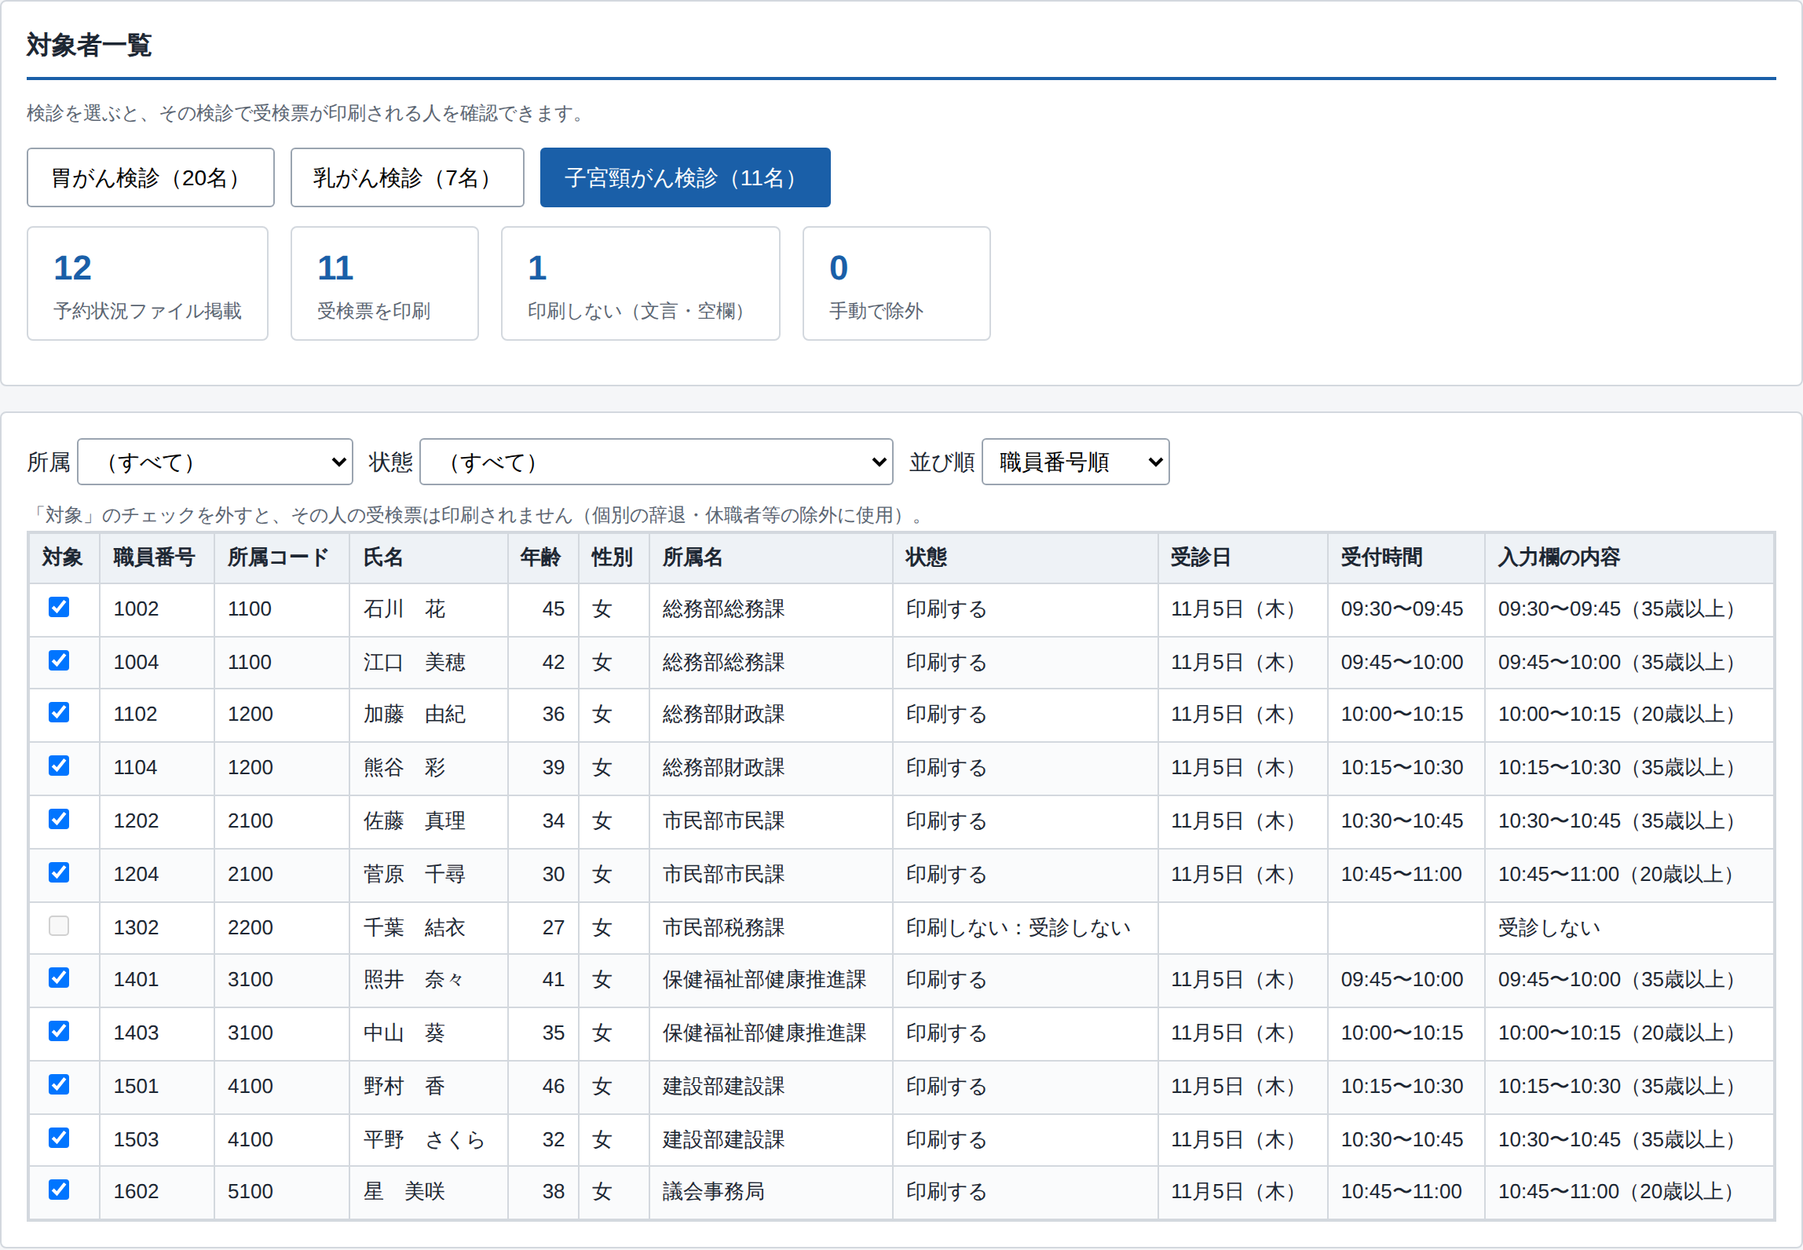
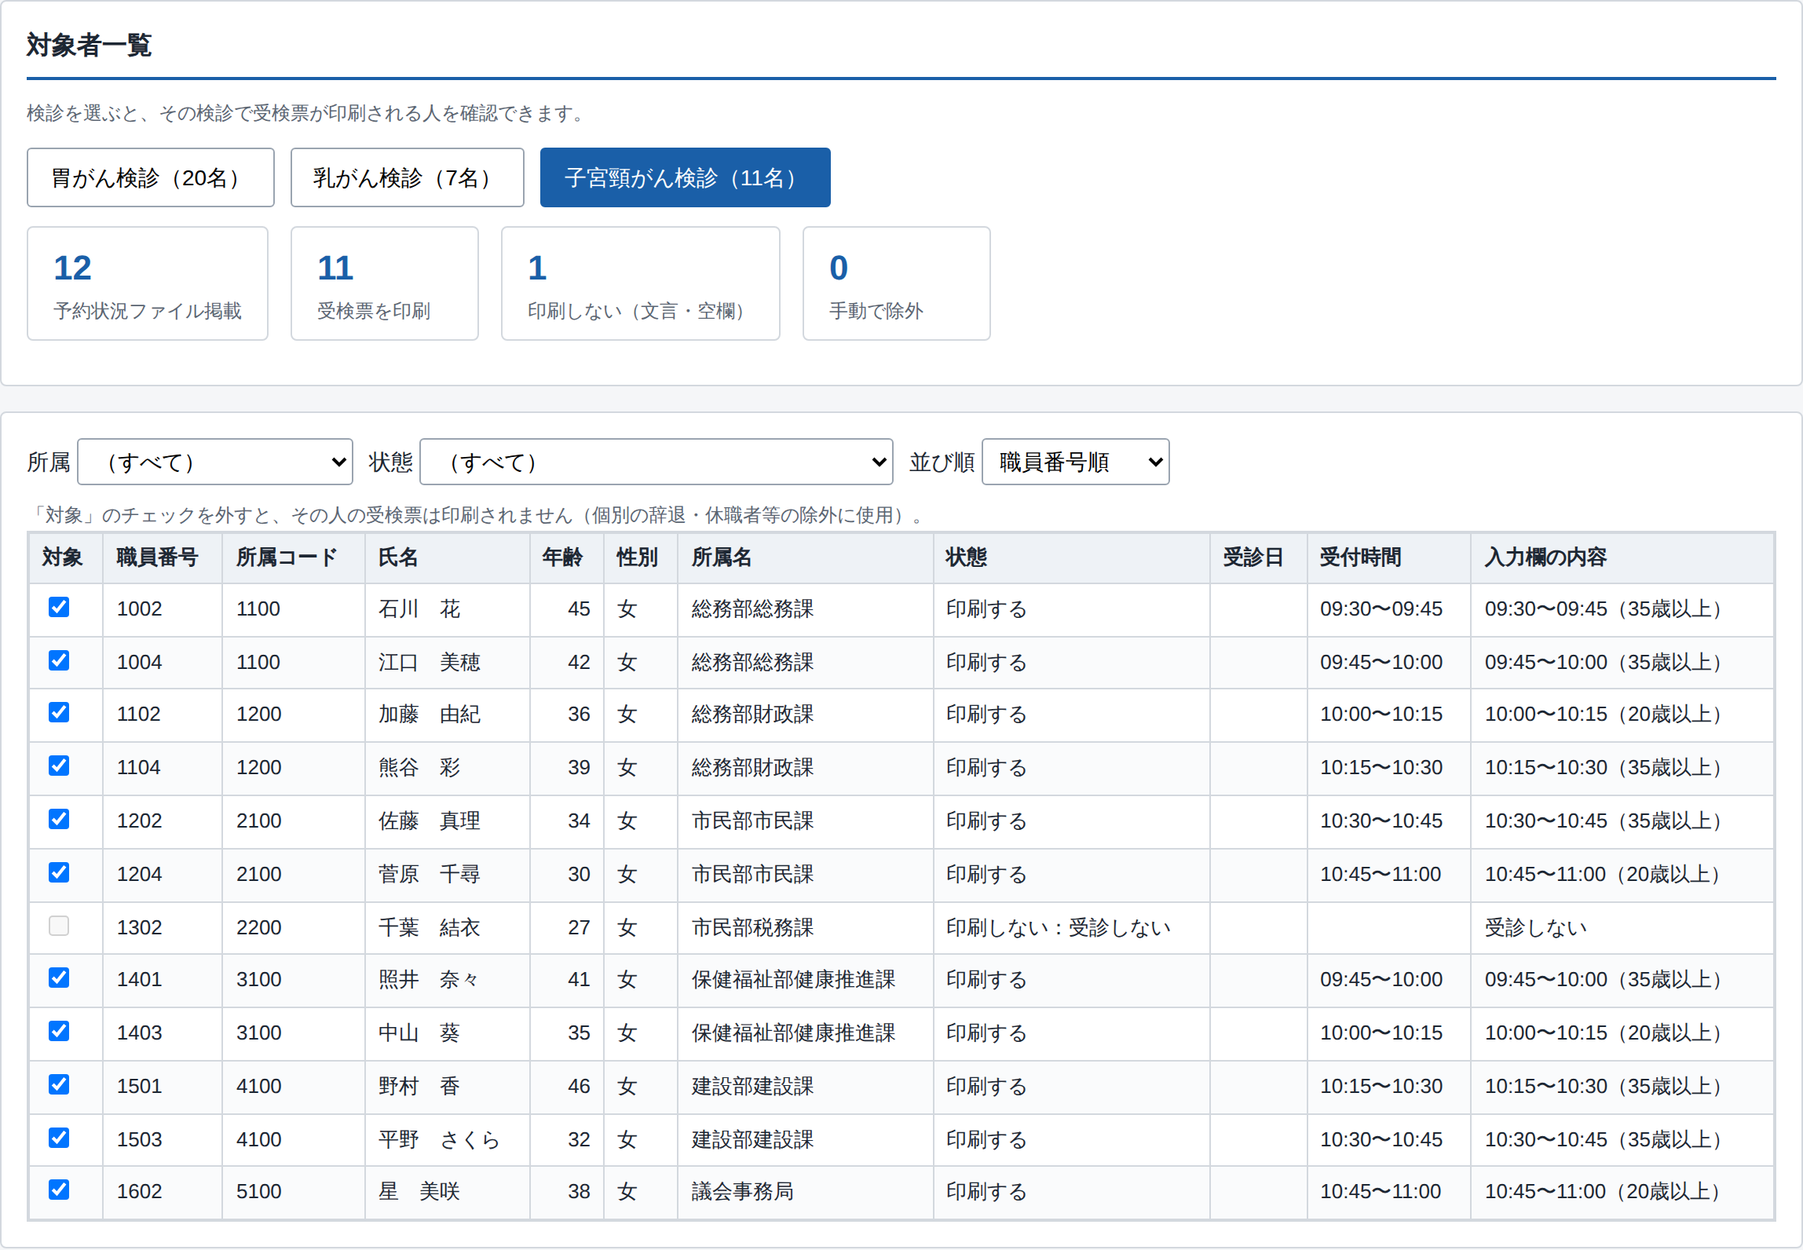
実施年月・受診日の指定をやめ、入力欄に書かれた日付をそのまま扱うようにした
予約状況の取込画面から実施年月と受診日の入力欄を削除した。
入力欄に日しか書かれていない場合でも年月を補わず、「6日（火）」のまま
受診日として扱う。月まで書かれている場合（「10月6日」「10/6」など）は
従来どおり日付として組み立て、年は対象年度から決める。

これに伴い、実施年月の指定を前提としていた次の警告を廃止した。

- 「実施年月と日が合いません」
- 「入力欄に日しかありません。実施年月を指定してください」
- 「受診日が決まりません」

曜日の突き合わせは、月まで書かれている場合に限り行う。
入力欄の【男】【女】と名簿の性別の突き合わせは従来どおり。

受検票のB4様式は受診日を印字しないため、この変更による印字内容への
影響はない。対象者一覧と受診日時順の並び替えでは、日付として組み立て
られたものを優先し、そうでないものは入力欄の表記のまま扱う。

Claude-Session: https://claude.ai/code/session_01LqhWD3ZtEM5S1eRzxMM65U

diff --git a/kenshin.html b/kenshin.html
@@ -435,7 +435,8 @@ table.grid tbody tr:nth-child(even){background:#fafbfc}
       <strong>受検票を印刷する人は、このファイルだけで決まります。</strong><br>
       入力欄が <strong>空欄</strong> の人と、下の「印刷が不要になる入力値」に<strong>該当する</strong>人は印刷しません。
       <strong>それ以外は、入力欄の内容にかかわらずすべて印刷します。</strong><br>
-      <strong>婦人検診</strong>は1つのファイルから、年齢区分に応じて乳がん検診・子宮頸がん検診に振り分けます。
+      <strong>婦人検診</strong>は1つのファイルから、年齢区分に応じて乳がん検診・子宮頸がん検診に振り分けます。<br>
+      日付は入力欄に書かれているものをそのまま使います。年や月を入力する必要はありません。
     </div>
     <div id="nyuCards"></div>
   </div>
@@ -659,7 +660,7 @@ table.grid tbody tr:nth-child(even){background:#fafbfc}
     <h3>作業の流れ</h3>
     <ol>
       <li><strong>名簿の読込</strong>　上で作った職員名簿の Excel を読み込み、列の対応付けを確認します。</li>
-      <li><strong>予約状況の取込</strong>　胃がん検診・婦人検診それぞれの Excel を読み込み、職員番号の列と入力の列を指定して取り込みます。実施年月（または受診日）と会場もここで指定します。<br>
+      <li><strong>予約状況の取込</strong>　胃がん検診・婦人検診それぞれの Excel を読み込み、職員番号の列と入力の列を指定して取り込みます。<br>
           取り込むと、確認が必要な件があればこの画面に表示されます。</li>
       <li><strong>対象者一覧</strong>　検診を選んで、受検票が印刷される人を確認します。辞退者などはここで個別に外せます。</li>
       <li><strong>様式レイアウト</strong>　初回のみ、協会の用紙に1枚テスト印刷して位置を確認します。合っていればそのままで構いません。</li>
@@ -676,11 +677,11 @@ table.grid tbody tr:nth-child(even){background:#fafbfc}
       <tbody>
         <tr><td><code>【男】6日（火）　7：00〜7：15</code><br><span class="hint">胃がん検診</span></td>
             <td>印刷する</td>
-            <td>受診日「10月6日（火）」（実施年月の指定から）／受付時間「7：00〜7：15」<br>
-                <span class="hint">【男】【女】が名簿の性別と違うとき、曜日が合わないときは一覧に要確認と表示します。</span></td></tr>
+            <td>受診日「6日（火）」／受付時間「7：00〜7：15」<br>
+                <span class="hint">【男】【女】が名簿の性別と違うときは一覧に要確認と表示します。</span></td></tr>
         <tr><td><code>09:30〜09:45（35歳以上）</code><br><span class="hint">婦人検診</span></td>
             <td>印刷する</td>
-            <td>受診日は指定した日／受付時間「09:30〜09:45」<br>
+            <td>受付時間「09:30〜09:45」<br>
                 <span class="hint">年齢区分で乳がん検診・子宮頸がん検診に振り分けます。</span></td></tr>
         <tr><td><code>要相談</code> など日時として読めない内容</td><td><strong>印刷する</strong></td>
             <td>受診日は空欄／受付時間に内容をそのまま印字（一覧に<strong>要確認</strong>と表示）</td></tr>
@@ -875,7 +876,7 @@ var state = {
   onlyActive: true,      // 「在職」列がある場合、在職者のみを対象にする
   inactive:   [],        // 在職でないため除外した職員
   nyuSrc:     {},        // 取込元(srcId) -> 読み込んだ内容
-  nyuOpt:     {},        // 取込元(srcId) -> 実施年月・受診日・会場の設定
+  nyuOpt:     {},        // 取込元(srcId) -> 会場の設定
   nyuryoku:   {},        // kenshinId -> 検診ごとに振り分けた結果（nyuSrc から組み立て）
   fujinRules: defaultFujinRules(),
   fujinFallback: "both", // 年齢区分がどのルールにも当てはまらないときの扱い
@@ -1761,13 +1762,11 @@ $("baseDate").addEventListener("change", function(){
 
 var NYU_SOURCES = [
   { id:"i",     name:"胃がん検診", kenshin:["i"],
-    needMonth:true,  needDate:false,
     sample:"【男】6日（火）　7：00〜7：15",
-    note:"入力欄に日だけが書かれているため、実施年月をここで指定します。" },
+    note:"性別・日・受付時間帯を読み取ります。" },
   { id:"fujin", name:"婦人検診（乳がん・子宮頸がん）", kenshin:["nyu","shikyu"],
-    needMonth:false, needDate:true,
     sample:"09:30〜09:45（35歳以上）",
-    note:"入力欄に日付がないため、受診日をここで指定します。年齢区分で対象の検診が決まります。" }
+    note:"受付時間帯と年齢区分を読み取り、年齢区分で対象の検診が決まります。" }
 ];
 
 function nyuSourceOf(id){
@@ -1792,6 +1791,13 @@ function empKey(v){
 }
 function empKeyLoose(v){
   return empKey(v).replace(/^0+(?=.)/, "");
+}
+
+/* 受診日の表示。月まで分かれば「10月6日（火）」、日しかなければ「6日（火）」 */
+function assignDateLabel(a){
+  if(!a) return "";
+  if(a.date) return fmtDateWithDow(a.date);
+  return a.dateText || "";
 }
 
 function isoOf(d){
@@ -1835,7 +1841,7 @@ function parseNyuryoku(raw, srcId){
               .replace(/[‐-―−]/g, "-")   // 各種ダッシュを半角ハイフンに
               .replace(/　/g, " ");                        // 全角スペース
   var orig = s;
-  var rec = { kind:"time", raw:s, date:null, timeText:"", sexMark:"", ageBand:"", dow:"", warn:"" };
+  var rec = { kind:"time", raw:s, date:null, dateText:"", timeText:"", sexMark:"", ageBand:"", dow:"", warn:"" };
 
   function blankAt(str, at, len){
     var pad = "";
@@ -1896,41 +1902,30 @@ function parseNyuryoku(raw, srcId){
 
   rec.timeText = orig.replace(/[\s　]+/g, " ").replace(/^[\s・,、]+|[\s・,、]+$/g, "");
 
-  /* 年と月を決める */
+  /* 受診日。入力欄に月まで書かれているときだけ日付として組み立てる。
+     「6日（火）」のように日しかない場合は、書かれたまま文字として扱います。 */
   if(da != null){
-    if(mo == null && opt.month){
-      var mp = String(opt.month).split("-");
-      rec.date = mkDate(+mp[0], +mp[1], da);
-      if(!rec.date) rec.warn = "実施年月と日が合いません（" + opt.month + " に " + da + "日はありません）";
-    }else if(mo != null){
-      if(mo >= 1 && mo <= 12 && da >= 1 && da <= 31){
-        var y = (mo >= 4) ? state.fiscalYear : state.fiscalYear + 1;
-        rec.date = mkDate(y, mo, da);
-      }
+    if(mo != null && mo >= 1 && mo <= 12 && da >= 1 && da <= 31){
+      var y = (mo >= 4) ? state.fiscalYear : state.fiscalYear + 1;
+      rec.date = mkDate(y, mo, da);
+      rec.dateText = mo + "月" + da + "日" + (rec.dow ? "（" + rec.dow + "）" : "");
     }else{
-      rec.warn = "入力欄に日しかありません。実施年月を指定してください";
+      rec.dateText = da + "日" + (rec.dow ? "（" + rec.dow + "）" : "");
     }
-  }else if(opt.date){
-    rec.date = parseIso(opt.date);
+  }else if(rec.dow){
+    rec.dateText = "（" + rec.dow + "）";
   }
 
-  /* 受診日が決まらないときは知らせる（受検票の受診日欄が空欄になります） */
-  if(!rec.date && !rec.warn && (src.needMonth || src.needDate)){
-    rec.warn = src.needMonth
-      ? "受診日が決まりません。実施年月の指定と入力欄の日付をご確認ください"
-      : "受診日が決まりません。受診日を指定してください";
-  }
-
-  /* 曜日が書かれていれば突き合わせる */
+  /* 月まで書かれていれば曜日を突き合わせる */
   if(rec.date && rec.dow){
     var actual = DOW_NAMES[rec.date.getDay()];
     if(actual !== rec.dow){
-      rec.warn = "曜日が合いません（入力欄は" + rec.dow + "曜、指定の年月では" + actual + "曜）";
+      rec.warn = "曜日が合いません（入力欄は" + rec.dow + "曜、" + (rec.date.getMonth()+1) + "月" + rec.date.getDate() + "日は" + actual + "曜）";
     }
   }
 
   /* 日時として何も読み取れなかった場合 */
-  if(!rec.date && !rec.timeText) rec.kind = "unknown";
+  if(!rec.dateText && !rec.timeText) rec.kind = "unknown";
 
   return finishRec(rec, src, opt);
 }
@@ -2026,14 +2021,8 @@ function renderNyuCard(sid){
 
   h += '<div class="row">'
      + '<button class="btn" data-nypick="' + sid + '">予約状況ファイルを選択…</button>'
-     + '<input type="file" id="nyfile_' + sid + '" accept=".xlsx,.xlsm,.csv,.txt" style="display:none">';
-  if(src.needMonth){
-    h += '<label>実施年月 <input type="month" data-nymonth="' + sid + '" value="' + esc(opt.month || "") + '"></label>';
-  }
-  if(src.needDate){
-    h += '<label>受診日 <input type="date" data-nydate="' + sid + '" value="' + esc(opt.date || "") + '"></label>';
-  }
-  h += '<label>会場 <input type="text" data-nyplace="' + sid + '" value="' + esc(s ? s.place : (opt.place || ""))
+     + '<input type="file" id="nyfile_' + sid + '" accept=".xlsx,.xlsm,.csv,.txt" style="display:none">'
+     + '<label>会場 <input type="text" data-nyplace="' + sid + '" value="' + esc(s ? s.place : (opt.place || ""))
      + '" placeholder="例）市役所 3階 大会議室" style="width:210px"></label>';
   if(s) h += '<button class="btn" data-nyclear="' + sid + '">取込を解除</button>';
   h += "</div>";
@@ -2189,13 +2178,6 @@ function bindNyuCards(){
     if(t.dataset.nycol){
       var p = t.dataset.nycol.split(":");
       nyuPending[p[0]][p[1]] = parseInt(t.value, 10);
-    }
-    if(t.dataset.nymonth || t.dataset.nydate){
-      var sid = t.dataset.nymonth || t.dataset.nydate;
-      state.nyuOpt[sid] = state.nyuOpt[sid] || {};
-      if(t.dataset.nymonth) state.nyuOpt[sid].month = t.value;
-      else state.nyuOpt[sid].date = t.value;
-      reparseSource(sid);
     }
     if(t.dataset.fr){
       var q = t.dataset.fr.split(":"), r = state.fujinRules[parseInt(q[0], 10)];
@@ -2413,7 +2395,7 @@ function saveData(){
     loadErrors: state.loadErrors,
     inactive: state.inactive,
     nyuSrc: {},
-    nyuOpt: state.nyuOpt,
+    nyuOpt: state.nyuOpt,   // 会場のみ
     excluded: {}
   };
   NYU_SOURCES.forEach(function(src){
@@ -2556,7 +2538,8 @@ function computeTargets(){
                      needCheck:false, checkWhy:"" };
         if(rec.kind === "time"){
           item.print = true;
-          item.assign = { date: isoOf(rec.date), place: rec.place || ny.place || "", time: rec.timeText };
+          item.assign = { date: isoOf(rec.date), dateText: rec.dateText || "",
+                          place: rec.place || ny.place || "", time: rec.timeText };
           if(rec.warn){ item.needCheck = true; item.checkWhy = rec.warn; }
           /* 入力欄の【男】【女】と名簿の性別が食い違っていないか */
           if(rec.sexMark && sexLabel(e.sex) !== rec.sexMark){
@@ -2575,7 +2558,7 @@ function computeTargets(){
           item.print = true;
           item.needCheck = true;
           item.checkWhy = rec.warn || "受診日時として読み取れません";
-          item.assign = { date:"", place: rec.place || ny.place || "", time: rec.raw };
+          item.assign = { date:"", dateText:"", place: rec.place || ny.place || "", time: rec.raw };
         }
         list.push(item);
       });
@@ -2719,7 +2702,7 @@ function renderTargets(){
       + "<td>" + sexLabel(e.sex) + "</td>"
       + "<td>" + esc(e.deptName) + "</td>"
       + "<td" + (st.warn ? ' style="color:#a8410f"' : "") + ">" + esc(st.label) + "</td>"
-      + "<td>" + (a && a.date ? fmtDateWithDow(a.date) : "") + "</td>"
+      + "<td>" + esc(assignDateLabel(a)) + "</td>"
       + "<td>" + (a ? esc(a.time) : "") + "</td>"
       + "<td>" + (r.t.nyu ? esc(r.t.nyu.raw) : "") + "</td>"
       + "</tr>";
@@ -2936,10 +2919,10 @@ function personCtx(t, kid){
   var e = t.emp, a = t.assign, L = state.layouts[kid] || {};
   var w = toWareki(e.birth);
   var age = ageFor(e, L.ageBasis, a);
-  var ed = "", em = "", edd = "";
+  var ed = assignDateLabel(a), em = "", edd = "";
   if(a && a.date){
     var p = a.date.split("-");
-    ed = fmtDateWithDow(a.date); em = String(+p[1]); edd = String(+p[2]);
+    em = String(+p[1]); edd = String(+p[2]);
   }
   return {
     "団体名": state.orgName,
@@ -3358,8 +3341,8 @@ function sortForPrint(list, order){
     });
   }else if(order === "date"){
     a.sort(function(x, y){
-      var dx = x.assign ? x.assign.date + " " + x.assign.time : "9999";
-      var dy = y.assign ? y.assign.date + " " + y.assign.time : "9999";
+      var dx = x.assign ? (x.assign.date || "zz" + (x.assign.dateText || "")) + " " + x.assign.time : "zzzz";
+      var dy = y.assign ? (y.assign.date || "zz" + (y.assign.dateText || "")) + " " + y.assign.time : "zzzz";
       if(dx !== dy) return dx < dy ? -1 : 1;
       return cmpDeptKana(x, y);
     });

diff --git a/README.md b/README.md
@@ -103,18 +103,21 @@
 
 ファイルは **取込元ごと**に読み込みます。
 
-| 取込元 | 対象になる検診 | 入力欄の例 | 画面で指定するもの |
+| 取込元 | 対象になる検診 | 入力欄の例 | 読み取る内容 |
 |---|---|---|---|
-| **胃がん検診** | 胃がん検診 | `【男】6日（火）　7：00〜7：15` | **実施年月**（入力欄に日しかないため）・会場 |
-| **婦人検診** | 乳がん検診・子宮頸がん検診 | `09:30〜09:45（35歳以上）` | **受診日**（入力欄に日付がないため）・会場・年齢区分の振り分け |
+| **胃がん検診** | 胃がん検診 | `【男】6日（火）　7：00〜7：15` | 性別・日・受付時間帯 |
+| **婦人検診** | 乳がん検診・子宮頸がん検診 | `09:30〜09:45（35歳以上）` | 受付時間帯・年齢区分 |
+
+**日付は入力欄に書かれているものをそのまま使います。** 年や月を入力する必要はありません。
+`6日（火）` と書かれていれば `6日（火）` として扱い、`10月6日` のように月まで書かれていれば日付として扱います。
 
 入力欄には、職員が予約すると予約時間などが入ります。
 **印刷しないのは次の 2 つだけで、それ以外はすべて印刷します。**
 
 | 入力欄の内容 | 受検票 | 印字のされ方 |
 |---|---|---|
-| `【男】6日（火）　7：00〜7：15` | 印刷する | 受診日「10月6日（火）」（実施年月の指定から）／受付時間「7：00〜7：15」 |
-| `09:30〜09:45（35歳以上）` | 印刷する | 受診日は指定した日／受付時間「09:30〜09:45」 |
+| `【男】6日（火）　7：00〜7：15` | 印刷する | 受診日「6日（火）」／受付時間「7：00〜7：15」 |
+| `09:30〜09:45（35歳以上）` | 印刷する | 受付時間「09:30〜09:45」 |
 | `8/22　10：30〜10：50` | 印刷する | 受診日「8月22日（土）」／受付時間「10：30〜10：50」 |
 | `要相談` など日時として読めない内容 | **印刷する** | 受診日は空欄／受付時間に内容をそのまま印字（一覧に**要確認**と表示） |
 | `派遣元自治体で受診` `派遣元で受診` `他受診機関で受診` `他の受診機関で受診予定` `受診しない` | **印刷しない** | ― |
@@ -144,13 +147,12 @@
 ### 入力欄の内容を突き合わせて確認します
 
 - **性別**　入力欄の `【男】` `【女】` が名簿の性別と違うときは要確認として表示します。
-- **曜日**　入力欄の `（火）` が、指定した実施年月から計算した曜日と違うときは要確認として表示します。
-- **受診日**　日付が決まらないときは要確認として表示します（受検票の受診日欄は空欄で印刷されます）。
+- **曜日**　入力欄に月まで書かれている場合に限り、曜日が合っているかを確かめ、違うときは要確認として表示します。
 
 - 「印刷が不要になる入力値」は画面上で**追加・変更できます**。判定は**部分一致**で、全角・半角と空白の違いは無視します。
 - 西暦は対象年度から決まります（4〜12 月は年度の年、1〜3 月は翌年）。
 - ファイルを読み込んでいない検診は対象者 0 名になります。
-- 実施年月・受診日・会場・振り分けルールを変えると、取り込み済みの内容をその場で解釈し直します。
+- 会場や振り分けルールを変えると、取り込み済みの内容をその場で解釈し直します。
 - 会場は取込画面で指定するか、ファイルに会場列があればその列を指定できます。
 
 ### 黙って対象から抜け落ちないようにしています
@@ -320,7 +322,7 @@ Chromium（Microsoft Edge と同じ描画エンジン）でヘッドレス実行
 - 入力欄の 21 通りの書き方（全角・半角の混在、`【男】6日（火）` 形式、`09:30〜09:45（35歳以上）` 形式、
   日付だけ／時刻だけ／読み取れない内容）を正しく解釈すること
 - 婦人検診 1 ファイルから、年齢区分に応じて乳がん検診・子宮頸がん検診へ振り分けられること
-- 性別の食い違い・曜日の食い違いを検出すること
+- 入力欄の性別と名簿の性別の食い違いを検出すること
 - 職員番号順・所属コード順の並び替え（数字を数値として扱うこと）
 - 全角数字（`９/３　９：００〜９：２０`）、`10月5日 13:00〜13:20` 形式の解釈
 - 空欄・判別不能・職員番号の重複・名簿にない職員番号の検出
